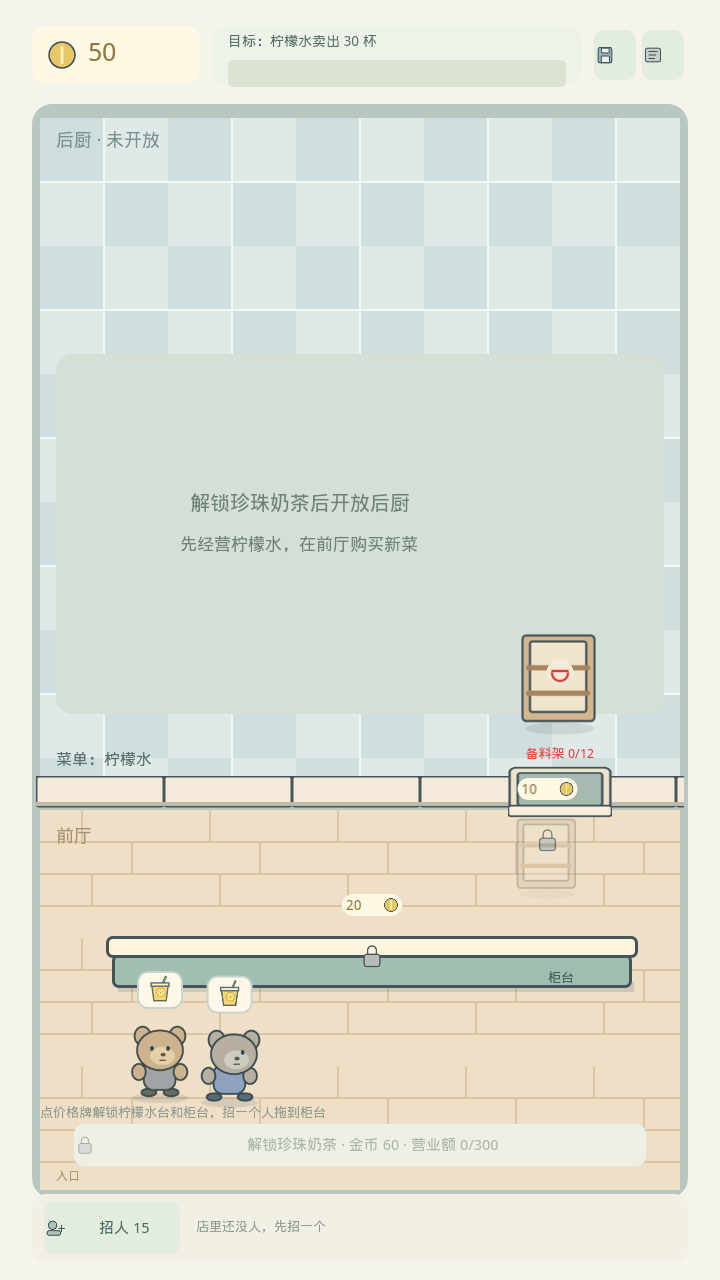
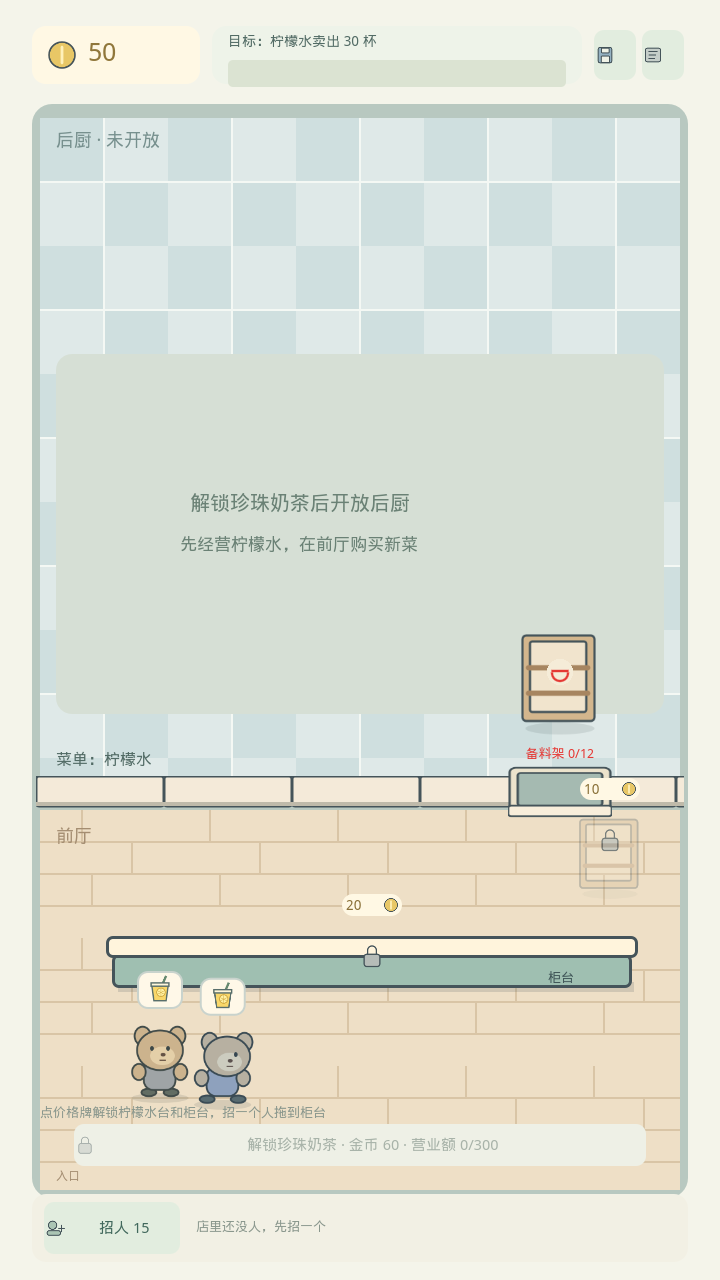
首店网格改成后厨 6×5、前厅 6×5（地面格正方形）
用户在美术线程定：后厨 6×5 留点发挥空间，地面格是正方形。前厅跟后厨同宽；
柠檬水台的格子挪到 (5,1)，前厅位点的显示宽度按前厅列数算。

Claude-Session: https://claude.ai/code/session_01ETno7CAUvZpAayhcYSiNeV

Changed region(s): [[0.7028, 0.5938, 0.8861, 0.6875], [0.275, 0.75, 0.3667, 0.875]]

diff --git a/README.md b/README.md
@@ -71,7 +71,7 @@ godot --path .
 
 ## 相对契约 v1.2 的进度（PXJ-46）
 
-- 已做：`FrontSpotDef`（前厅位点，点价格牌解锁）、`UnlockFrontSpot` / `HireStaff` / `SwapStaff`、`AssignStaff` 改成「工位或工作区」、`StationDef.DISPENSER`（饮水机式出品台，没有库存，不走预留）、`ShopGridDef`（首店 8×6 后厨 + 8×5 前厅，手写 .tres）。
+- 已做：`FrontSpotDef`（前厅位点，点价格牌解锁）、`UnlockFrontSpot` / `HireStaff` / `SwapStaff`、`AssignStaff` 改成「工位或工作区」、`StationDef.DISPENSER`（饮水机式出品台，没有库存，不走预留）、`ShopGridDef`（首店 6×5 后厨 + 6×5 前厅，手写 .tres）。
 - 还没做：布局模式、设备栏、自动传送带、一键部署、加料台与口味货架（PXJ-47 / 48）。后厨因此仍用 v1.1 的 `SlotDef` / `ConnectionDef` 固定机位，后厨员工也仍按工作区派工；前厅已经是按工位。
 - `ShopGridDef` 目前是手写的 .tres，店铺场景模板和 `@tool` 导出脚本等后厨真的能摆了（PXJ-47）再做。
 
